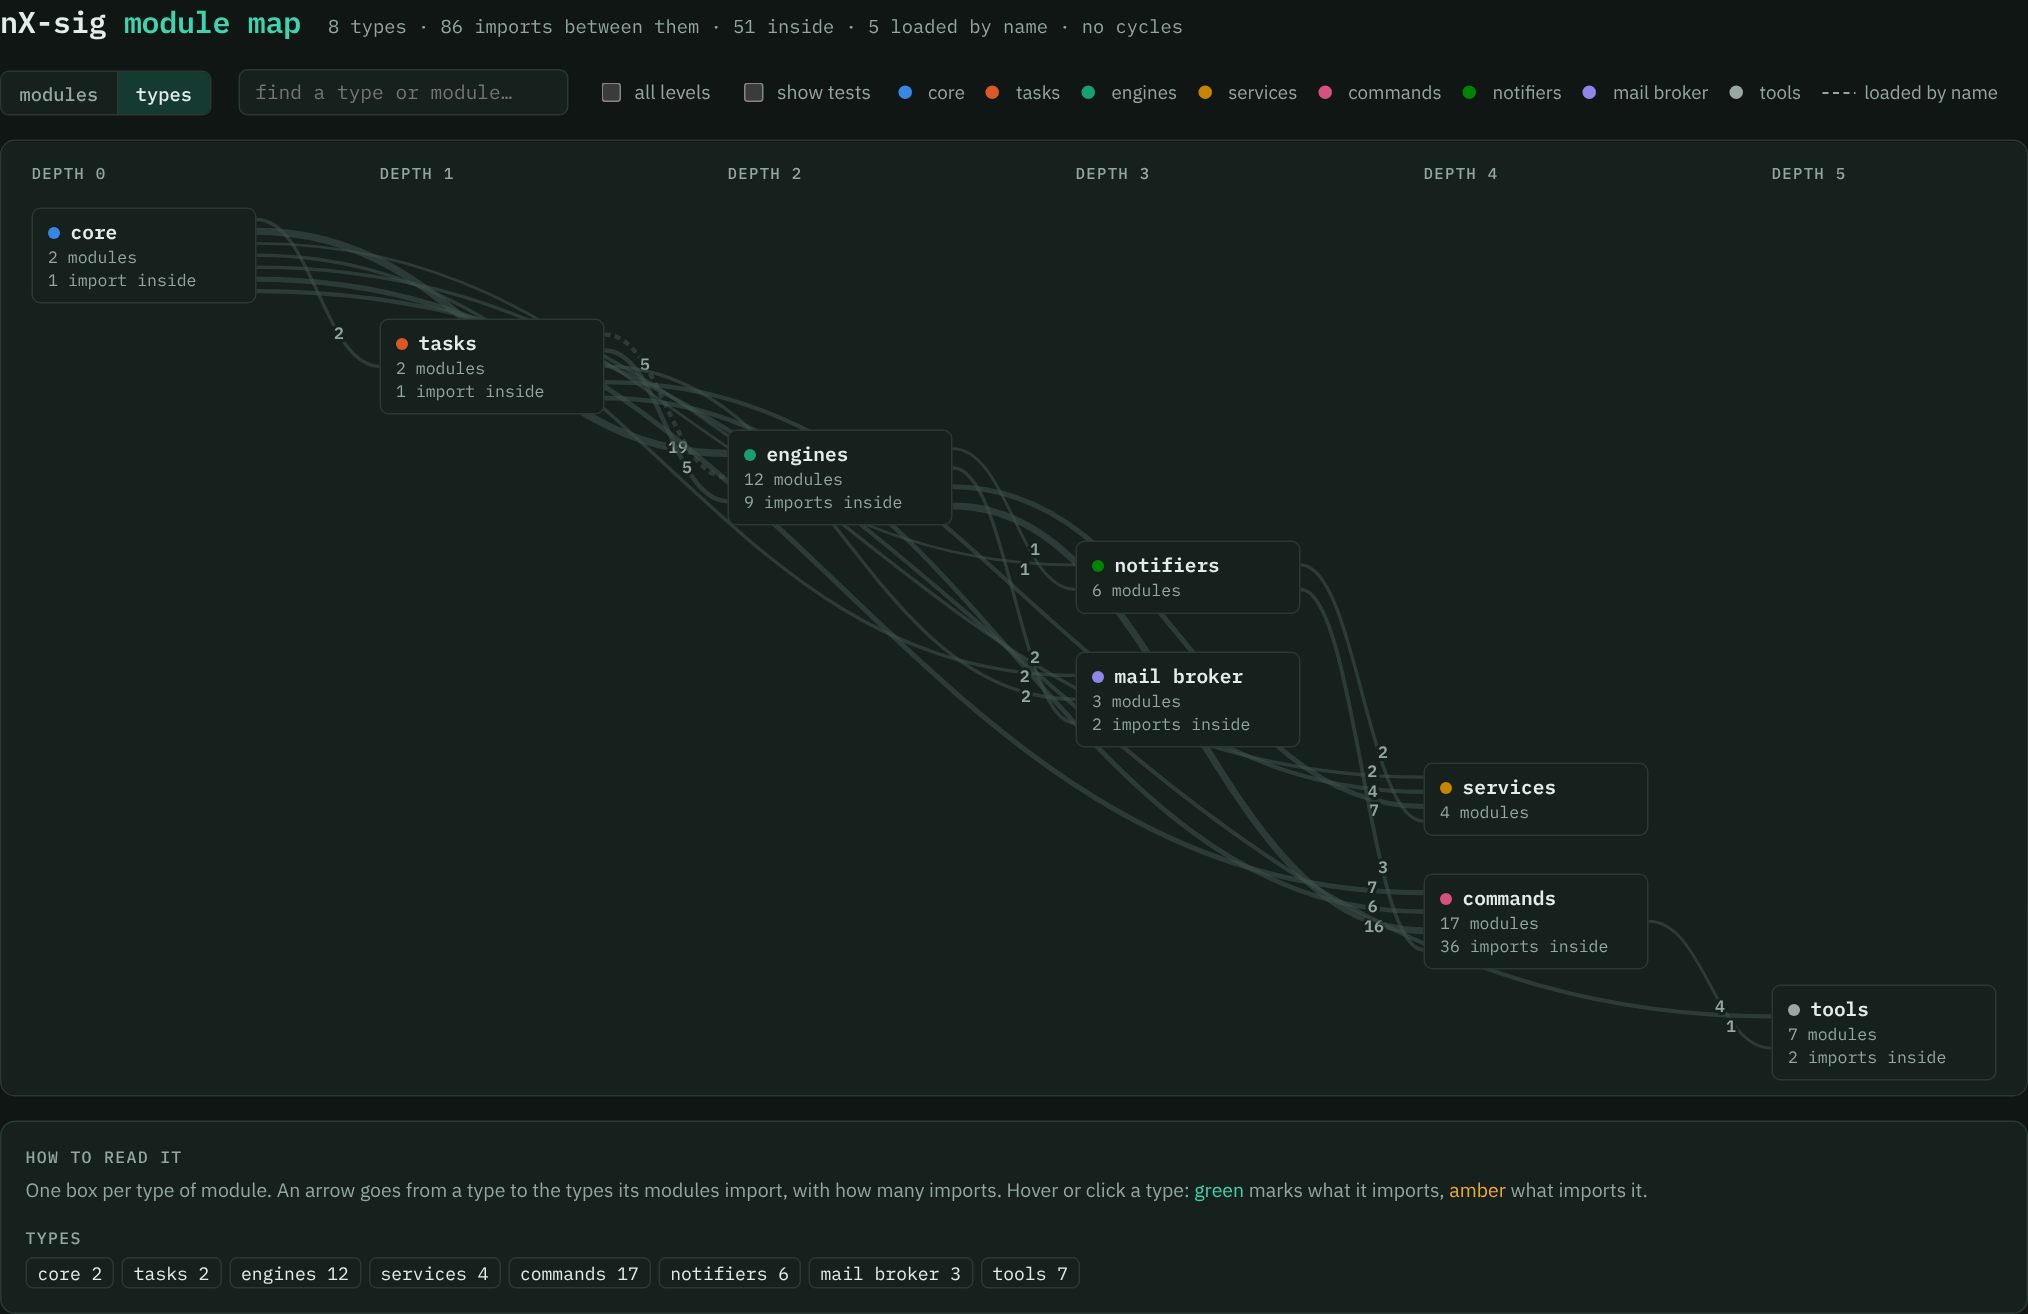
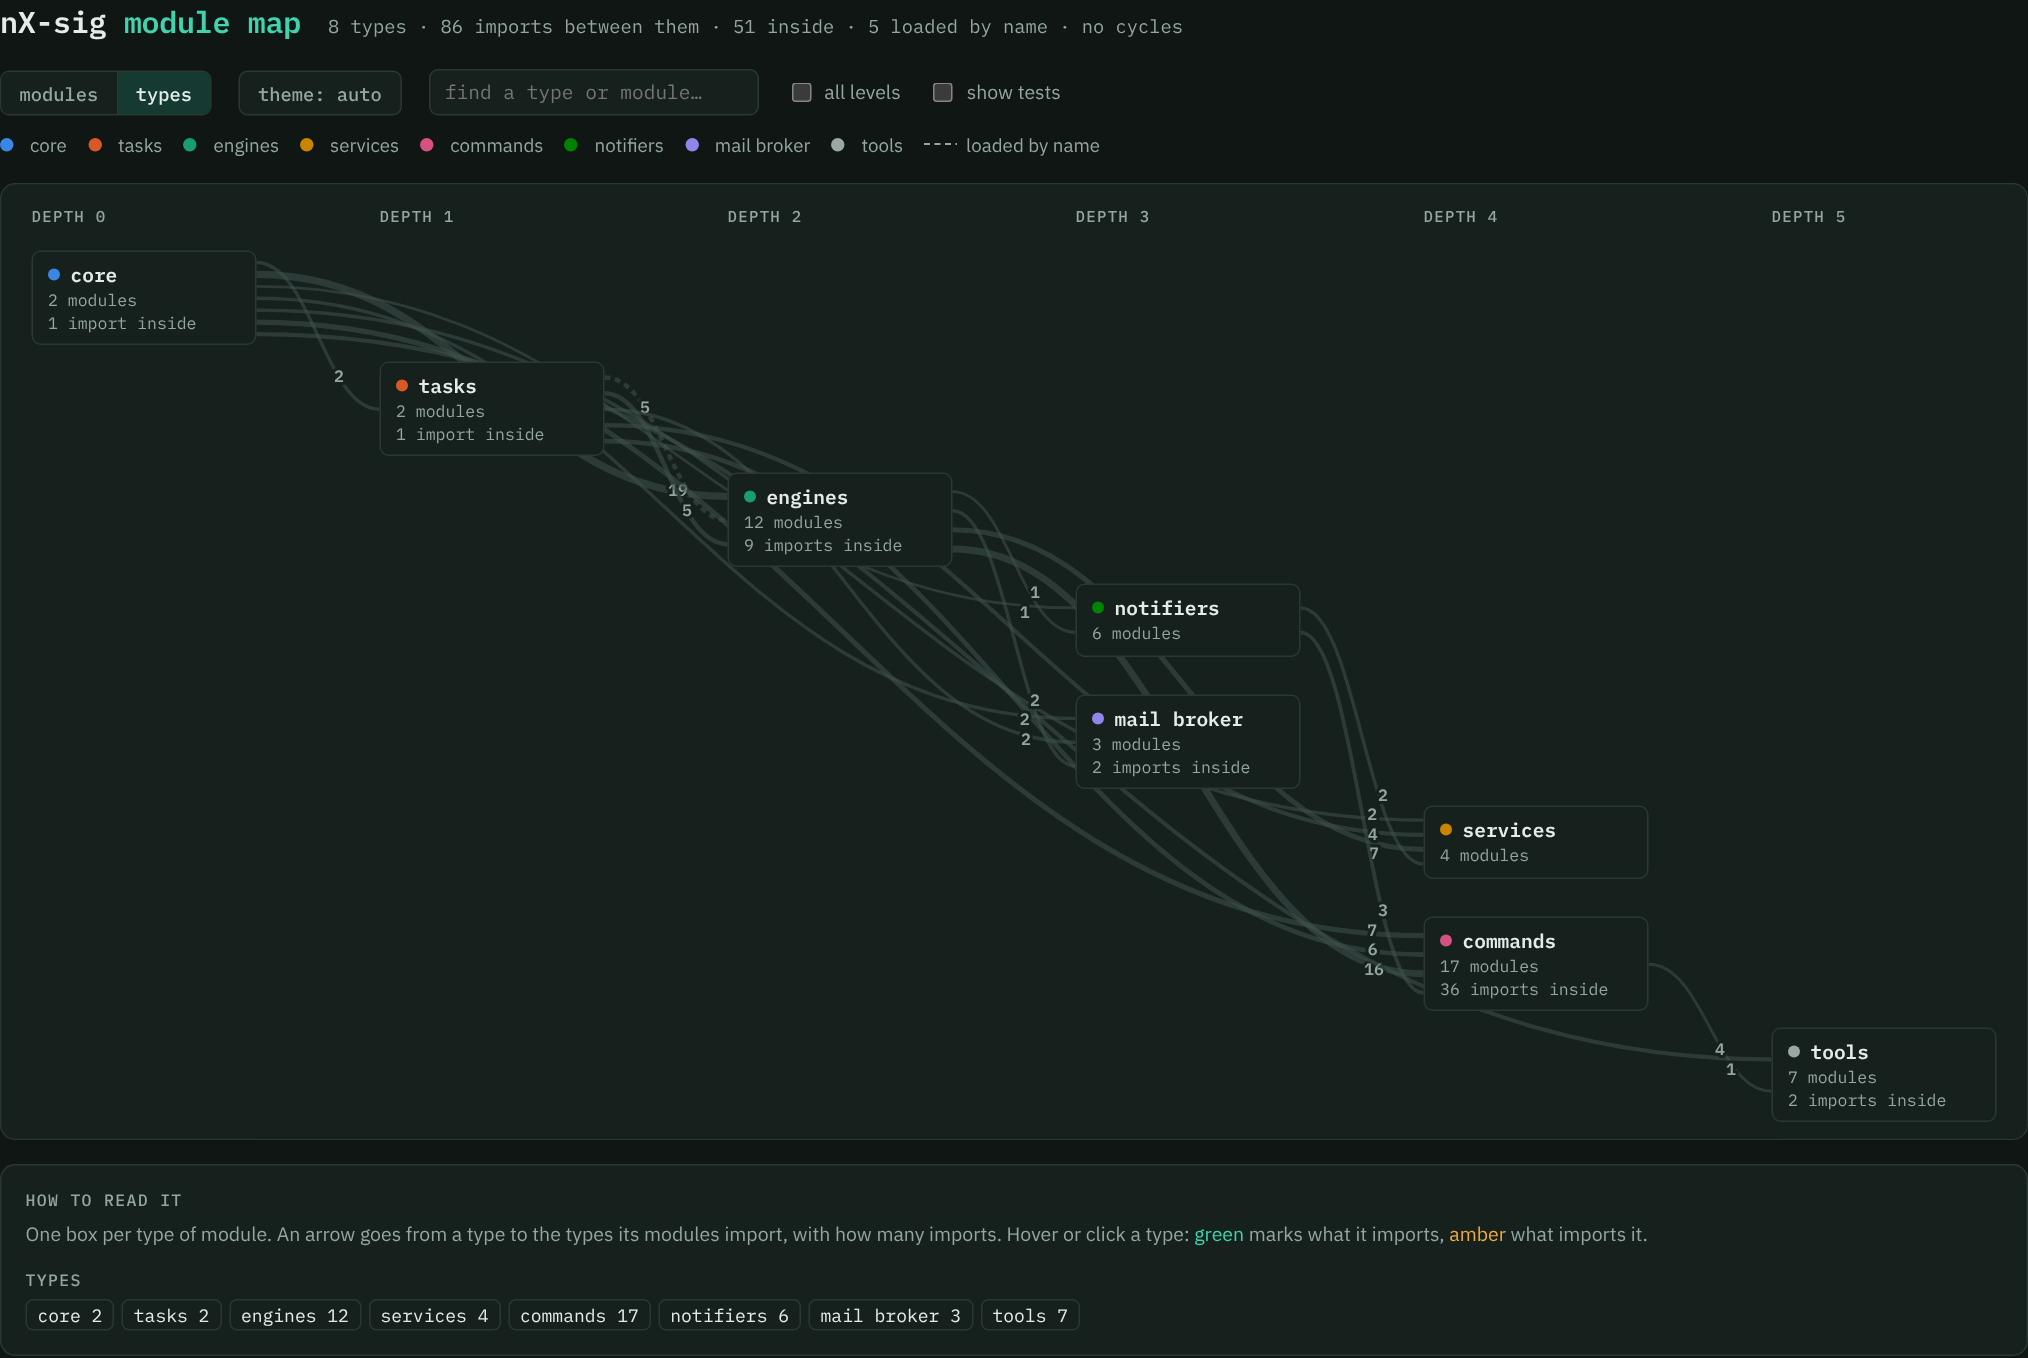
Module map: a theme button
"theme: auto" follows the system's light or dark
setting, as before; the button switches to light,
dark and back, remembered in the browser and set
before the page is drawn, so it doesn't flash. The
README says so, and its map pictures are taken
again with the button.

Claude-Session: https://claude.ai/code/session_011Wc6j3s1wFYH4B71R12S3T

diff --git a/assets/modules.html b/assets/modules.html
@@ -11,6 +11,14 @@
 <link rel="preconnect" href="https://fonts.googleapis.com">
 <link rel="preconnect" href="https://fonts.gstatic.com" crossorigin>
 <link rel="stylesheet" href="https://fonts.googleapis.com/css2?family=IBM+Plex+Mono:wght@400;500;600&family=IBM+Plex+Sans:wght@400;500;600&display=swap">
+<script>
+  // the theme chosen with the theme button, before the page is drawn, so
+  // it doesn't flash in the other one; none: the system's
+  try {
+    const t = localStorage.getItem("nx-sig-map-theme");
+    if (t === "light" || t === "dark") document.documentElement.dataset.theme = t;
+  } catch (e) {}
+</script>
 <style>
 /* layout: header + controls, then the layered graph (columns = import depth, left to right) beside a detail panel */
 :root {
@@ -135,6 +143,9 @@ path.e.dim { opacity: .08; }
 .views button { font: 500 12.5px var(--mono); color: var(--muted); background: var(--surface); border: 0; padding: 6px 12px; cursor: pointer; }
 .views button + button { border-left: 1px solid var(--line); }
 .views button[aria-pressed="true"] { color: var(--fg); background: var(--accent-soft); }
+.theme { font: 500 12.5px var(--mono); color: var(--muted); background: var(--surface); border: 1px solid var(--line); border-radius: 6px; padding: 6px 12px; cursor: pointer; }
+.theme:hover { color: var(--fg); }
+.theme:focus-visible { outline: 2px solid var(--accent); outline-offset: 1px; }
 .views button:focus-visible { outline: 2px solid var(--accent); outline-offset: -2px; }
 /* the types view: a staircase, one row per type, placed by JS; the panel
    goes below the graph, which takes the whole width */
@@ -164,6 +175,7 @@ text.elabel.dim { opacity: .15; }
       <button type="button" id="view-modules" aria-pressed="true">modules</button>
       <button type="button" id="view-types" aria-pressed="false">types</button>
     </div>
+    <button type="button" class="theme" id="theme" title="light, dark or the system's"></button>
     <input class="search" id="search" type="search" placeholder="find a module…" aria-label="Find a module" autocomplete="off">
     <label class="toggle"><input type="checkbox" id="transitive"> all levels</label>
     <label class="toggle"><input type="checkbox" id="tests"> show tests</label>
@@ -811,6 +823,25 @@ document.addEventListener("keydown", e => {
   if (e.key !== "Escape") return;
   state.view === "types" ? selectType(null) : select(null);
 });
+// the theme: the system's (auto), light or dark, in turn, remembered
+const THEMES = ["auto", "light", "dark"];
+function showTheme() {
+  const t = document.documentElement.dataset.theme || "auto";
+  $("theme").textContent = `theme: ${t}`;
+  $("theme").setAttribute("aria-label", `theme: ${t}, click for the next one`);
+}
+$("theme").addEventListener("click", () => {
+  const now = document.documentElement.dataset.theme || "auto";
+  const next = THEMES[(THEMES.indexOf(now) + 1) % THEMES.length];
+  if (next === "auto") delete document.documentElement.dataset.theme;
+  else document.documentElement.dataset.theme = next;
+  try {
+    if (next === "auto") localStorage.removeItem("nx-sig-map-theme");
+    else localStorage.setItem("nx-sig-map-theme", next);
+  } catch (e) {}
+  showTheme();
+});
+showTheme();
 $("view-modules").addEventListener("click", () => setView("modules"));
 $("view-types").addEventListener("click", () => setView("types"));
 

diff --git a/README.md b/README.md
@@ -662,7 +662,9 @@ left:
   notifiers, mail broker, tools) and an arrow to each type it imports,
   numbered and as wide as those imports.
 
-The page follows the light or dark setting of the system or the browser.
+The page follows the light or dark setting of the system or the browser;
+its `theme` button switches between that (auto), light and dark, and
+remembers the choice.
 
 <p align="center">
   <picture>
